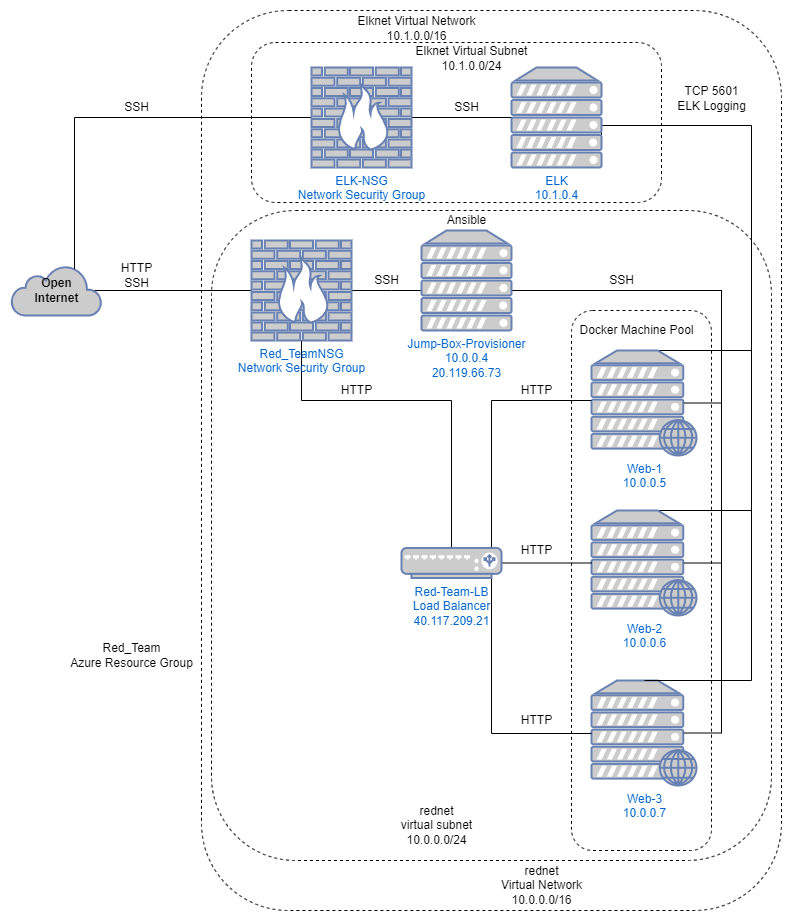
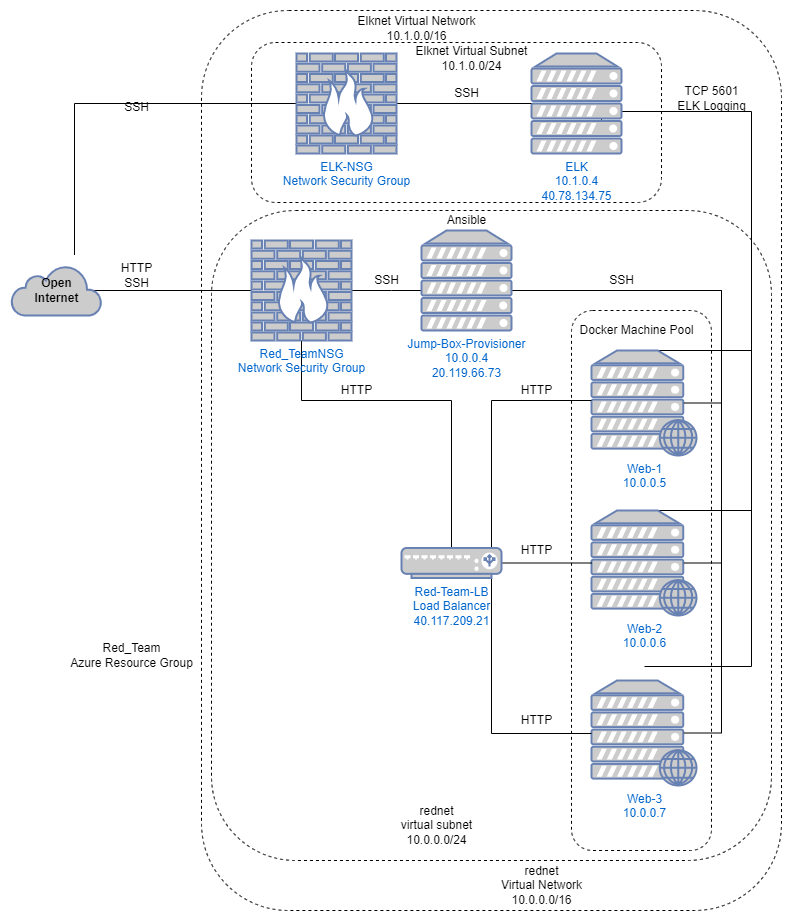
final

Changed region(s): [[0.3636, 0.0304, 0.5455, 0.2128], [0.6364, 0.0304, 0.7879, 0.2128], [0.5758, 0.0912, 0.6061, 0.1216]]

diff --git a/README.md b/README.md
@@ -59,13 +59,13 @@ A summary of the access policies in place can be found in the table below.
 
 ### Elk Configuration
 
-Ansible was used to automate configuration of the ELK machine. No configuration was performed manually, which is advantageous because...
-- _TODO: What is the main advantage of automating configuration with Ansible?_
+Ansible was used to automate configuration of the ELK machine. No configuration was performed manually, which is advantageous because redeployment of machines is automated and simplified if the need arises.
 
 The playbook implements the following tasks:
-- _TODO: In 3-5 bullets, explain the steps of the ELK installation play. E.g., install Docker; download image; etc._
-- ...
-- ...
+- Install Docker
+- Install Python3
+- Increase & Use Virtual Memory
+- Start ELK Docker Container
 
 The following screenshot displays the result of running `docker ps` after successfully configuring the ELK instance.
 
@@ -82,17 +82,13 @@ We have installed the following Beats on these machines:
 - Metricbeat
 
 These Beats allow us to collect the following information from each machine:
-- _TODO: In 1-2 sentences, explain what kind of data each beat collects, and provide 1 example of what you expect to see. E.g., `Winlogbeat` collects Windows logs, which we use to track user logon events, etc._
+- Filebeat collects log data and reports changes such as web traffic or error logs.
+- Metricbeat collects system statistics such as disk space and memory utilization.
 
 ### Using the Playbook
 In order to use the playbook, you will need to have an Ansible control node already configured. Assuming you have such a control node provisioned: 
 
 SSH into the control node and follow the steps below:
-- Copy the _____ file to _____.
-- Update the _____ file to include...
-- Run the playbook, and navigate to ____ to check that the installation worked as expected.
-
-_TODO: Answer the following questions to fill in the blanks:_
-- _Which file is the playbook? Where do you copy it?_
-- _Which file do you update to make Ansible run the playbook on a specific machine? How do I specify which machine to install the ELK server on versus which to install Filebeat on?_
-- _Which URL do you navigate to in order to check that the ELK server is running?
+- Copy the playbook file to ansible.
+- Update the hosts file to include IP addresses for the new machines under the correct headers; webservers and elk.
+- Run the playbook, and navigate to [Kibana](http://40.78.134.75:5601/app/kibana) to check that the installation worked as expected.
